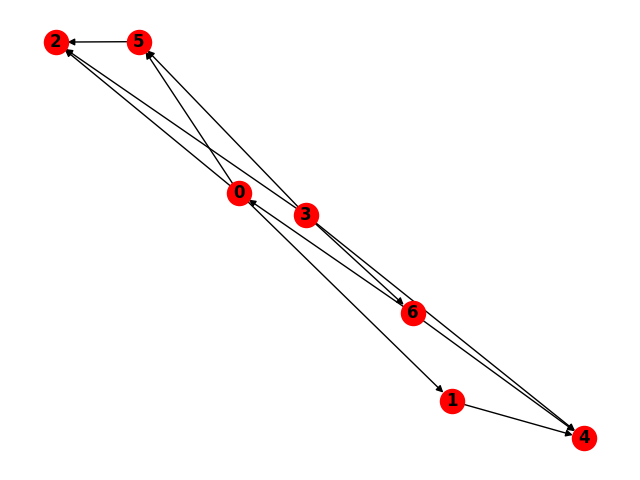
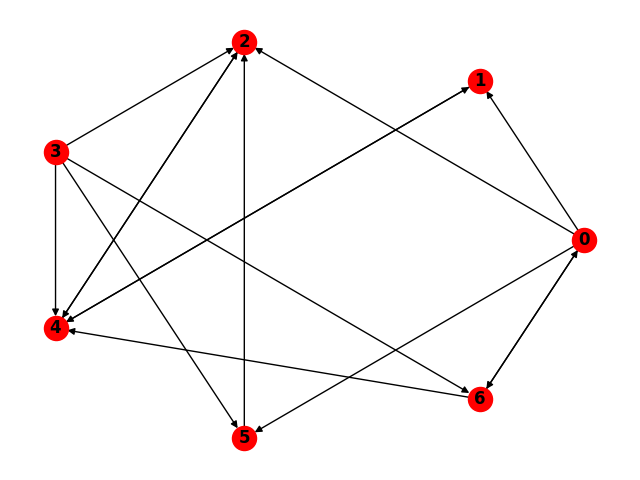
add edge weighted graphs

diff --git a/diGraphExample.py b/diGraphExample.py
@@ -10,26 +10,48 @@ def diGraphExample(fileName="diGraph.png"):
     G.add_edges_from({
         (0, 1),
         (0, 2),
+        (4, 2),
+        (2, 4),
         (0, 5),
         (1, 4),
+        (4, 1),
         (3, 2),
         (3, 5),
         (3, 4),
         (3, 6),
         (5, 2),
         (6, 0),
+        (0, 6),
         (6, 4),
     })
+    print('Nodes')
     print(list(G.nodes))
+    print('Edges')
     print(list(G.edges))
+
+    print('DFS nodes from 0')
+    print(list(nx.dfs_postorder_nodes(G,0)))
+
+    print('Printing shortest paths from 0')
+    for i in range(1, 6):
+        try:
+            print(list(nx.shortest_path(G, 0, i)))
+        except:
+            print('No path for node: ' + str(i)) 
+
 
     if nx.is_directed_acyclic_graph(G):
         print('DAG constructed. Printing topological sort: ')
         print(list(nx.topological_sort(G)))
     else:
-        raise("NOT a DAG")
+        print("NOT a DAG")
 
-    nx.draw(G, pos=nx.spring_layout(G), with_labels=True, font_weight='bold')
+
+    print('Strongly connected components')
+    print(list(nx.strongly_connected_components(G)))
+    
+
+    nx.draw(G, pos=nx.circular_layout(G), with_labels=True, font_weight='bold')
     print("Saving file to " + str(fileName))
     plt.savefig(fileName)
     print()

diff --git a/edgeWeightedGraph.py b/edgeWeightedGraph.py
@@ -1,0 +1,36 @@
+import networkx as nx
+import matplotlib
+matplotlib.use('agg')
+import matplotlib.pyplot as plt
+
+def edgeWeightedGraph(fileName="ewg.png"):
+  print()
+  G = nx.Graph()
+  G.add_weighted_edges_from([
+    (0,7,0.16),
+    (2,3,0.17),
+    (1,7,0.19),
+    (0,2,0.26),
+    (5,7,0.28),
+    (1,3,0.29),
+    (1,5,0.32),
+    (2,7,0.34),
+    (4,5,0.35),
+    (1,2,0.36),
+    (4,7,0.37),
+    (0,4,0.38),
+    (6,2,0.40),
+    (3,6,0.52),
+    (6,0,0.58),
+    (6,4,0.93),
+  ])
+
+  print(list(G.nodes))
+
+  labels = nx.get_edge_attributes(G,'weight')
+  pos = nx.circular_layout(G)
+  nx.draw_networkx_edge_labels(G, pos, edge_labels=labels)
+  nx.draw(G, pos, with_labels=True, font_weight='bold')
+  print("Saving file to " + str(fileName))
+  plt.savefig(fileName)
+  print()

diff --git a/main.py b/main.py
@@ -1,6 +1,7 @@
 import sys
 from diGraphExample import diGraphExample
 from graphExample import graphExample
+from edgeWeightedGraph import edgeWeightedGraph
 
 if len(sys.argv) < 2:
     raise "Please provide arguments"
@@ -9,5 +10,7 @@ if (sys.argv[1] == "ug"):
     graphExample()
 elif (sys.argv[1] == "dig"):
     diGraphExample()
+elif (sys.argv[1] == "ewg"):
+    edgeWeightedGraph()
 else:
     raise "Please valid provide argument!"

diff --git a/graphExample.py b/graphExample.py
@@ -38,7 +38,7 @@ def graphExample(fileName="simpleGraph.png"):
         except:
             print('No path for node: ' + str(i))
 
-    nx.draw(G, pos=nx.spring_layout(G), with_labels=True, font_weight='bold')
+    nx.draw(G, pos=nx.circular_layout(G), with_labels=True, font_weight='bold')
     print("Saving file to " + str(fileName))
     plt.savefig(fileName)
     print()
